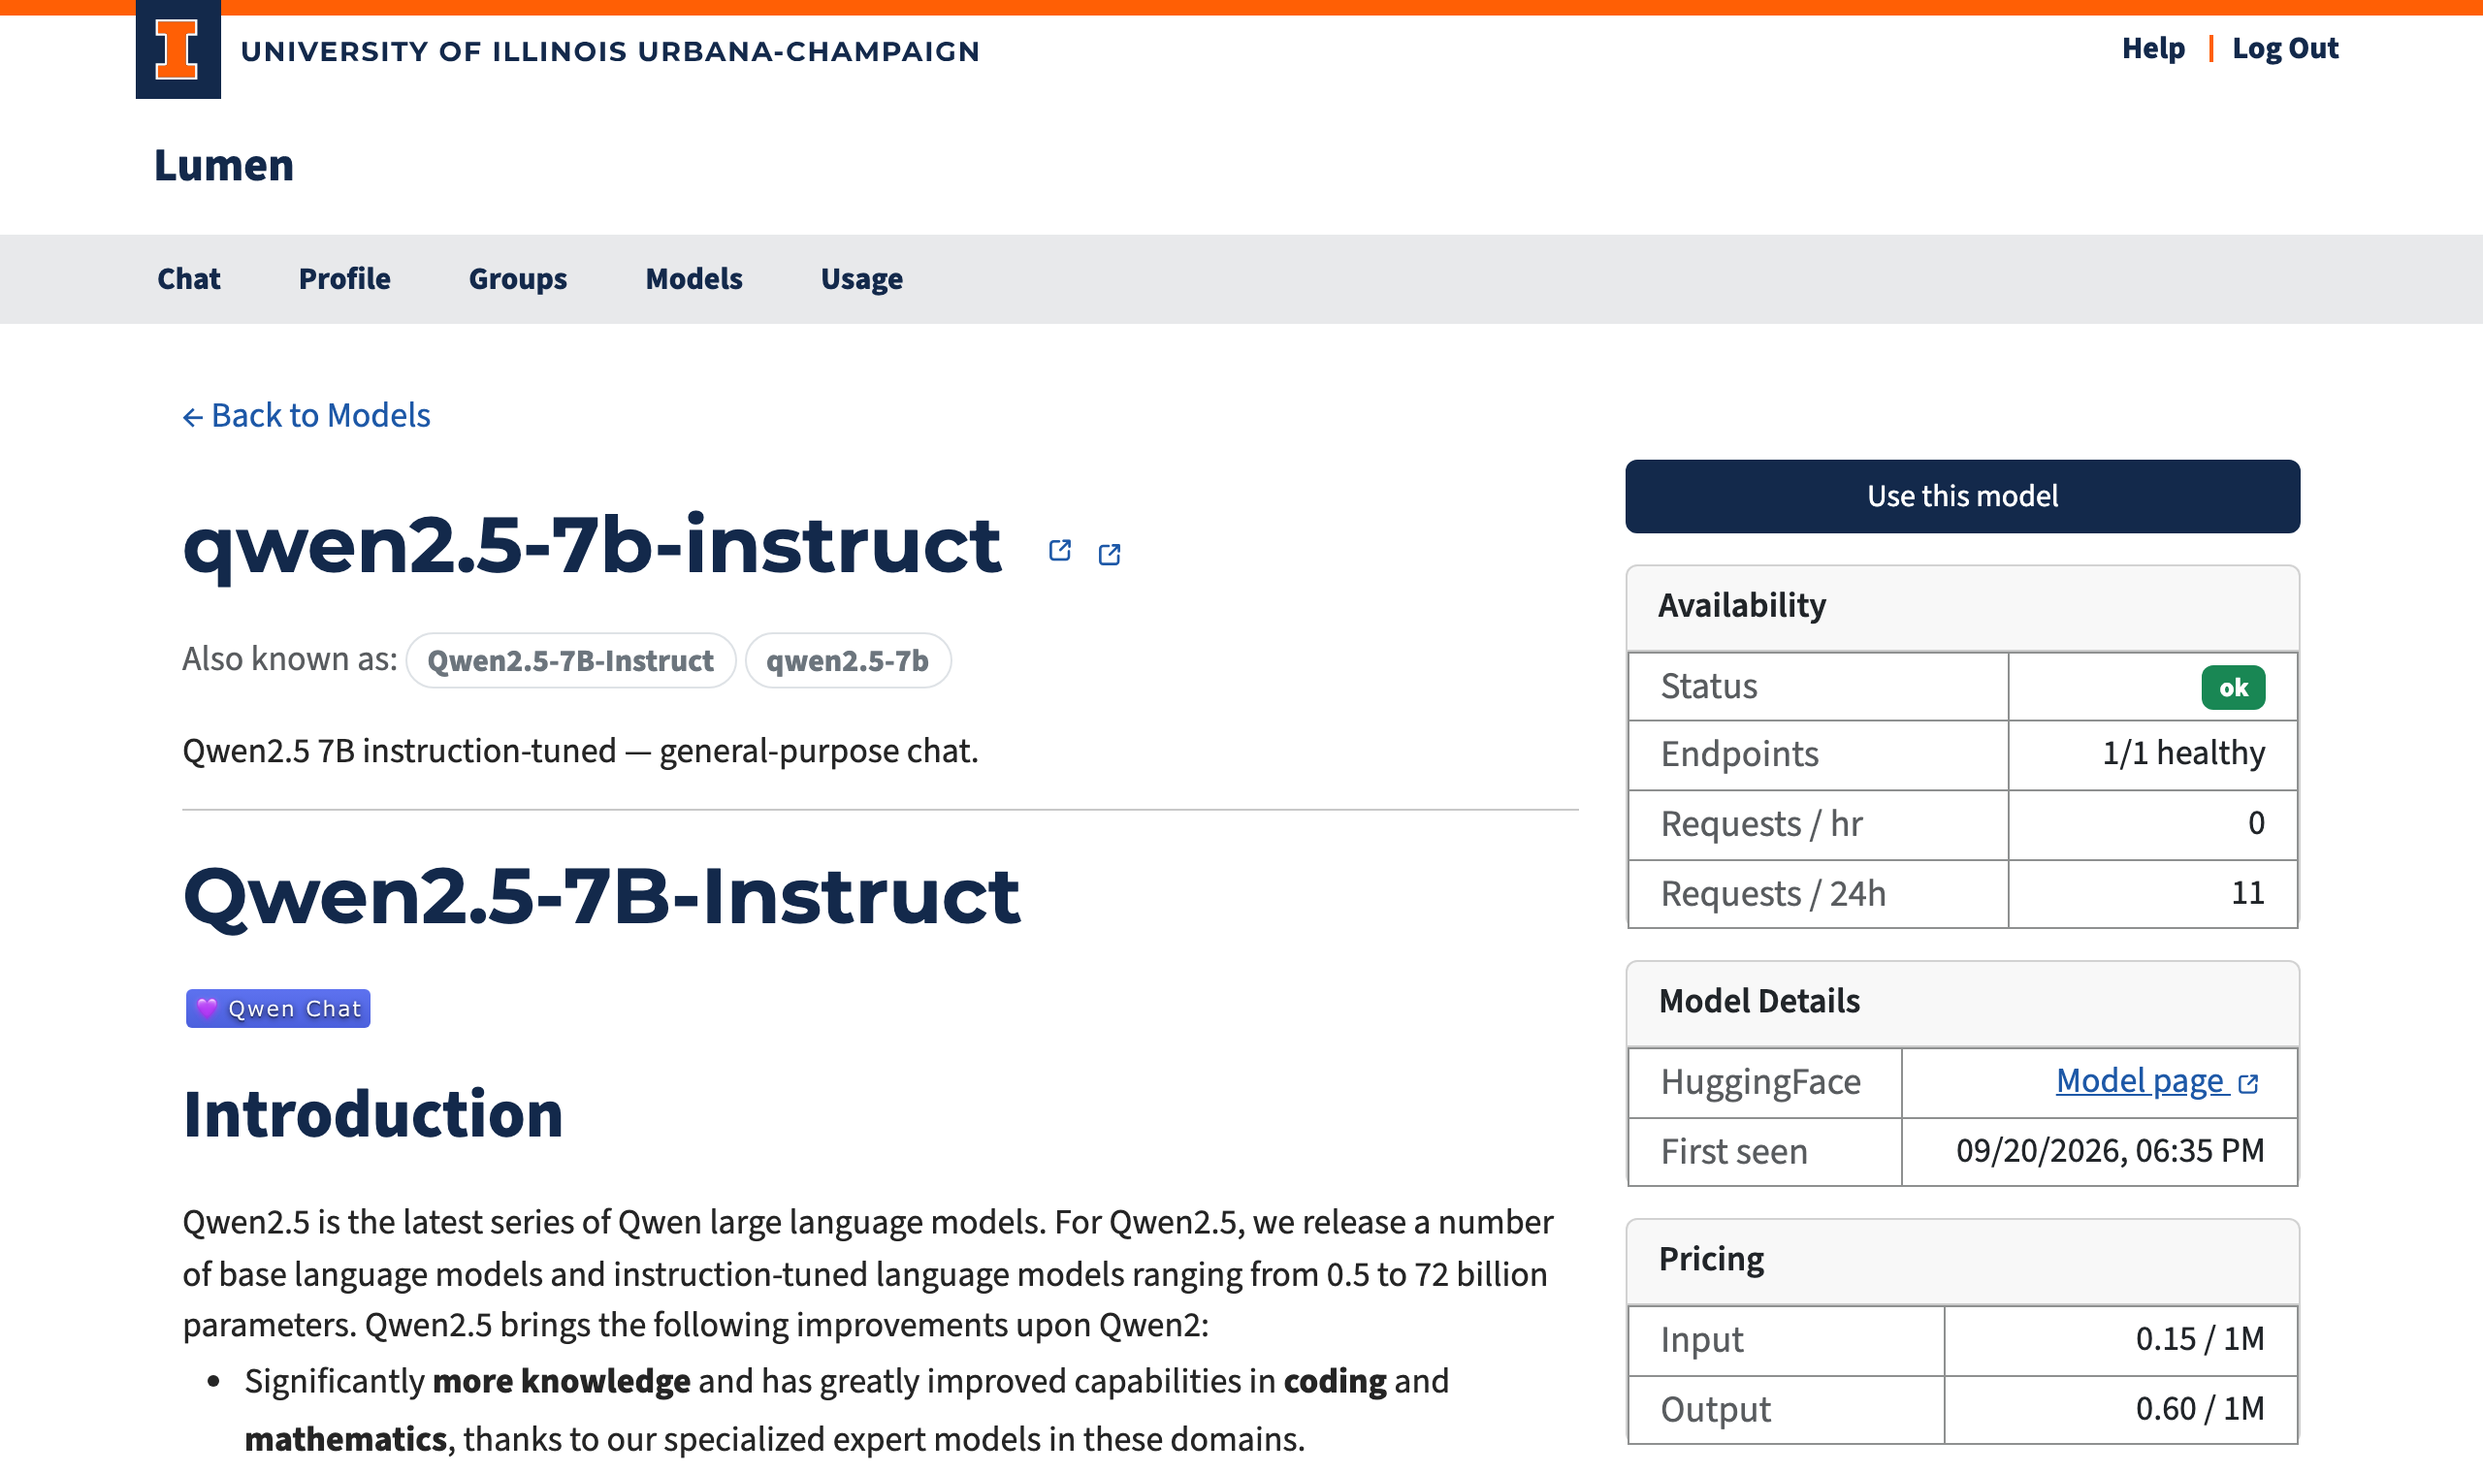
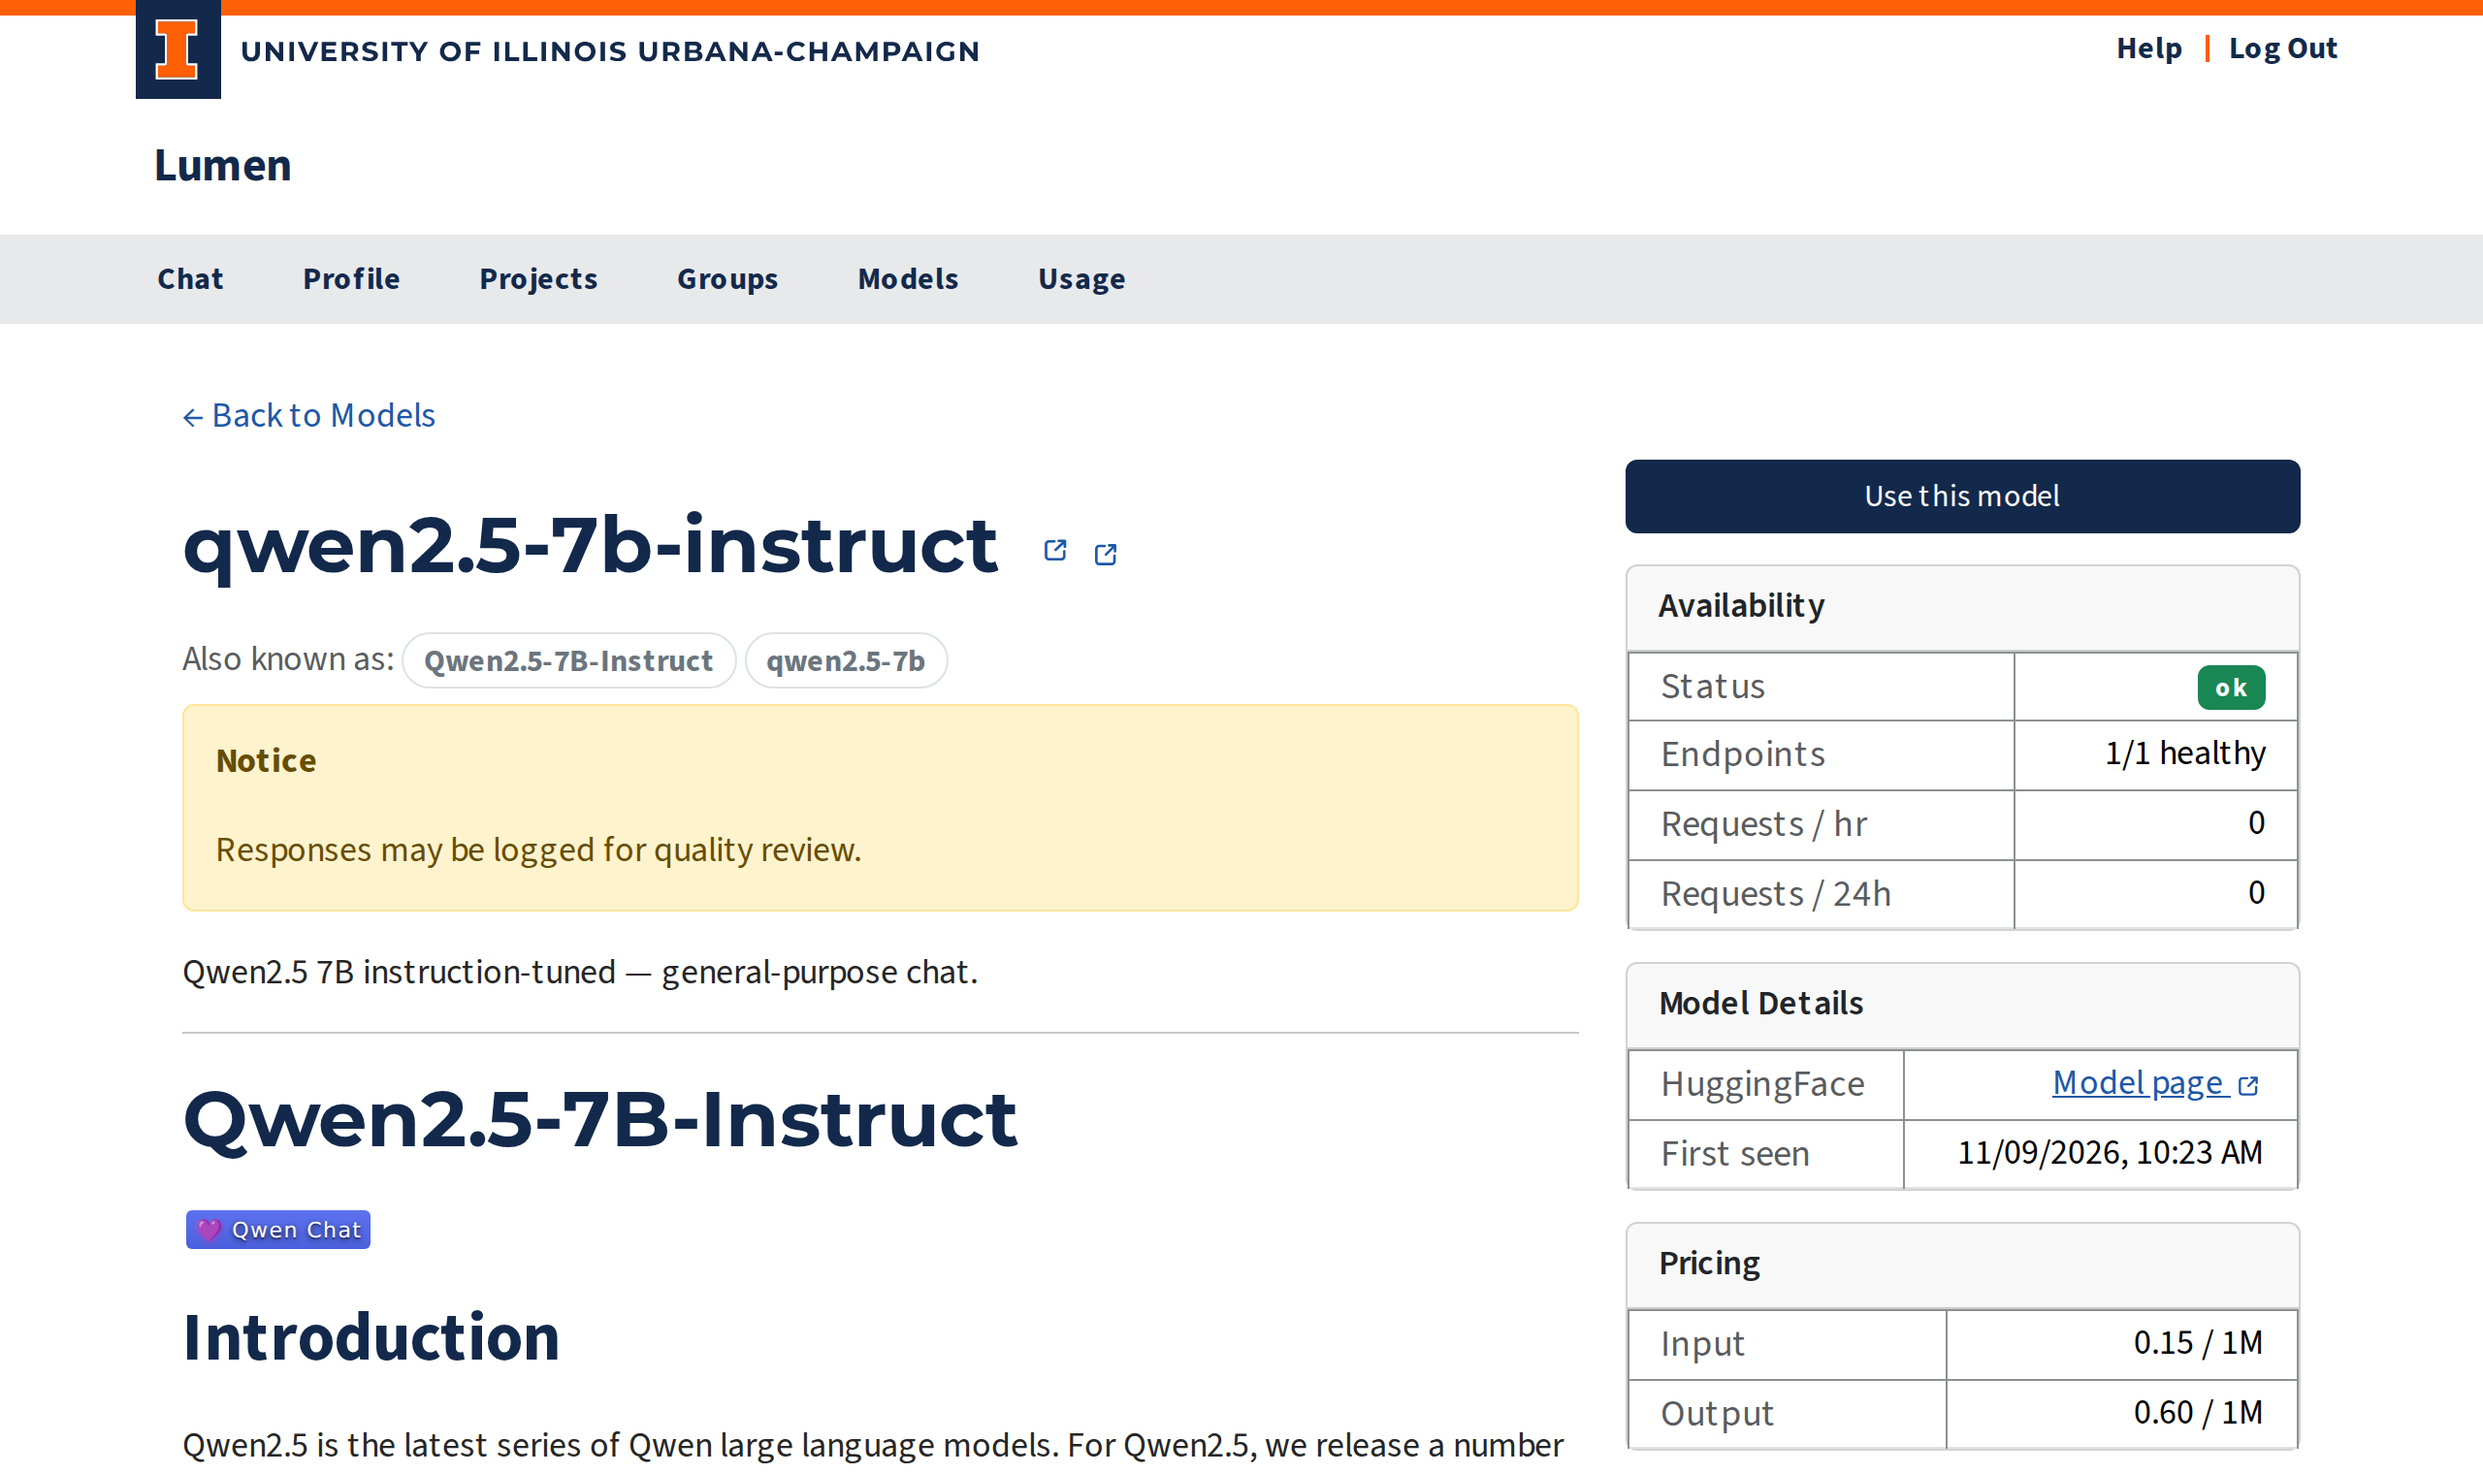
Document the model notice placement and re-capture model-detail.png (#504)
The model detail docs now describe the Notice block in the main column
and say the acknowledgement message shows on the right only while the
model needs acknowledgement. The notice field docs in config-models.md
and dbschema.md say where it renders and to use plain text or ###
and lower headings.

scripts/screenshots.py seeds a short plain notice on the captured model
so model-detail.png shows the left-column Notice block.

Fixes #492

diff --git a/scripts/screenshots.py b/scripts/screenshots.py
@@ -39,6 +39,7 @@ BASE = os.environ.get("BASE_URL", "http://localhost:5001").rstrip("/")
 OUT = os.environ.get("OUTPUT_DIR", "docs/img")
 DEMO_USER = "screenshot-demo@example.com"
 DEMO_MANAGER = "screenshot-manager@example.com"
+DEMO_NOTICE = "Responses may be logged for quality review."
 
 HIDE_CSS = """
 ilw-footer, footer, [slot='footer'] { display:none !important; }
@@ -55,6 +56,14 @@ def ensure_demo_data(app):
                 select(ModelConfig).where(ModelConfig.active).order_by(ModelConfig.model_name)
             ).scalars().first()
             model = mc.model_name if mc else ""
+
+        # A plain notice (no acknowledgement) so model-detail.png shows the
+        # left-column Notice block. Set after create_app()'s config sync.
+        captured = db.session.execute(
+            select(ModelConfig).filter_by(model_name=model)
+        ).scalar_one_or_none()
+        if captured:
+            captured.notice = DEMO_NOTICE
 
         user = db.session.execute(
             select(Entity).filter_by(email=DEMO_USER, entity_type="user")

diff --git a/docs/models/model-detail.md b/docs/models/model-detail.md
@@ -13,12 +13,15 @@ The page is split into two columns.
 ### Left Column
 
 - **Model name** with a link to the model's HuggingFace page (when available). Early-access models show an **early access** badge next to the name. When a model is reachable under alternative names (see [Model aliases](../admin/config-models.md#aliases)), those names appear as badges under the heading — they all refer to the same canonical model and share its usage history.
+- **Notice** — An operator-set notice about the model, shown whenever one is set.
 - **Description** — A short summary of the model.
 - **README** — The model's full documentation, rendered from its HuggingFace repository.
 
 ### Right Column
 
 #### Access Status
+
+When the model needs acknowledgment, its acknowledgment message appears in this column, under the **Use this model** button, as a **Notice** box. It is shown here only while the model needs acknowledgment; the model's own notice always stays in the left column.
 
 This card appears when the model requires acknowledgment before use:
 

diff --git a/docs/admin/config-models.md b/docs/admin/config-models.md
@@ -130,7 +130,7 @@ These fields tell the UI what the model can do and help users pick the right one
 | `supports_function_calling` | Whether the model supports tool/function calling via the API |
 | `input_modalities` | What the model accepts: `["text"]`, `["text", "image"]`, `["text", "image", "video"]`, `["text", "image", "video", "audio"]` |
 | `output_modalities` | What the model produces: typically `["text"]` |
-| `notice` | Optional admin note shown to users on the model detail page |
+| `notice` | Optional admin note, always shown in the main column of the model detail page. Rendered as Markdown: use plain text or `###` and lower headings (a `#` heading would add a second page title) |
 
 On Update, `supports_reasoning` comes from the serving backend's reasoning parser when its `/server_info` is reachable (SGLang always; vLLM only in dev mode), and otherwise from the models.dev provider consensus.
 

diff --git a/docs/dbschema.md b/docs/dbschema.md
@@ -460,7 +460,7 @@ Configuration and metadata for each AI model that Lumen can proxy. One row per l
 | `max_output_tokens` | Integer | YES | Maximum tokens the model can generate in a single response |
 | `supports_reasoning` | Boolean | YES | Whether the model exposes chain-of-thought / reasoning tokens |
 | `knowledge_cutoff` | String(7) | YES | Training data cutoff in `YYYY-MM` format |
-| `notice` | Text | YES | Optional admin notice displayed to users on the model detail page |
+| `notice` | Text | YES | Optional admin notice, always shown in the main column of the model detail page (Markdown; use plain text or `###` and lower headings) |
 | `created_at` | DateTime | NO | UTC timestamp when the model was registered |
 
 **Notes:**
